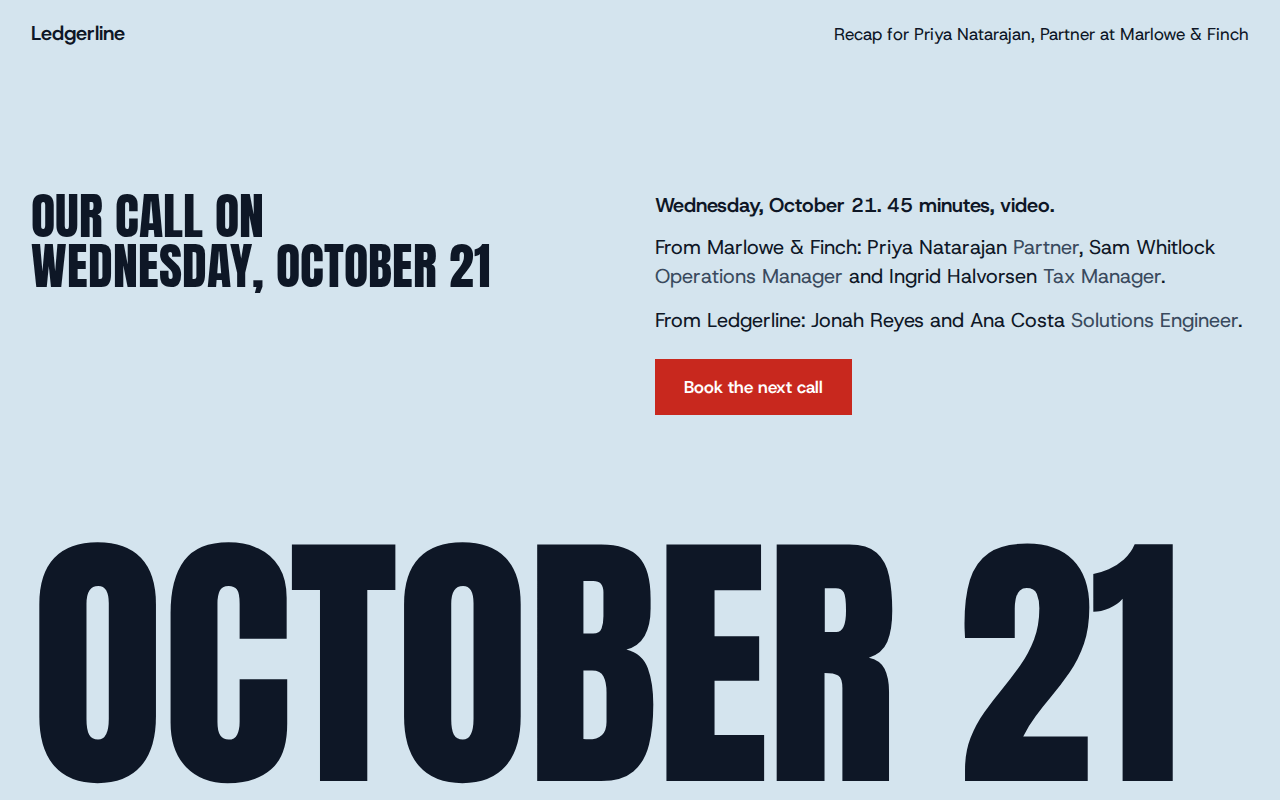
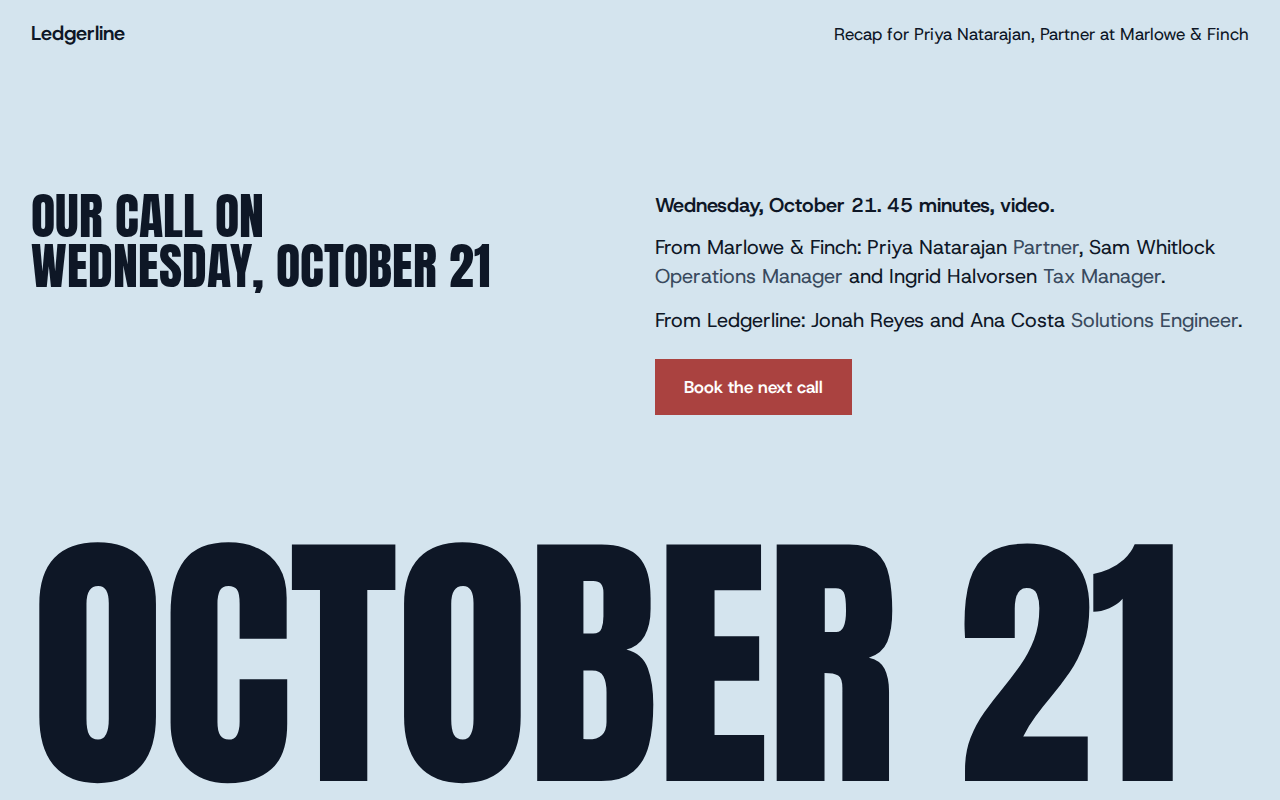
Library colour pass: meeting-recap, softer pencil red
#c8281e to #aa4240: the correcting-pencil red on the buttons and ticks drops from chroma 0.197 to 0.138.

Changed region(s): [[0.5, 0.4375, 0.6875, 0.5312]]

diff --git a/starters/meeting-recap/preview/marlowe-finch.html b/starters/meeting-recap/preview/marlowe-finch.html
@@ -13,7 +13,7 @@
   --surface:#c3d7e4;
   --ink:#0e1726;
   --muted:#3a4a5e;
-  --p:#c8281e;
+  --p:#aa4240;
   --s:#0e1726;
   --on-p:#ffffff;
   --mark:var(--p);
